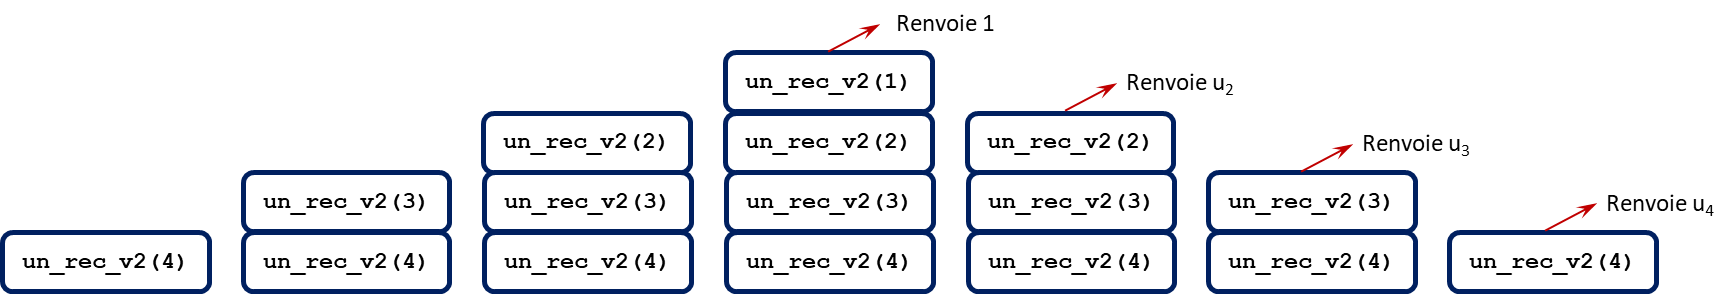
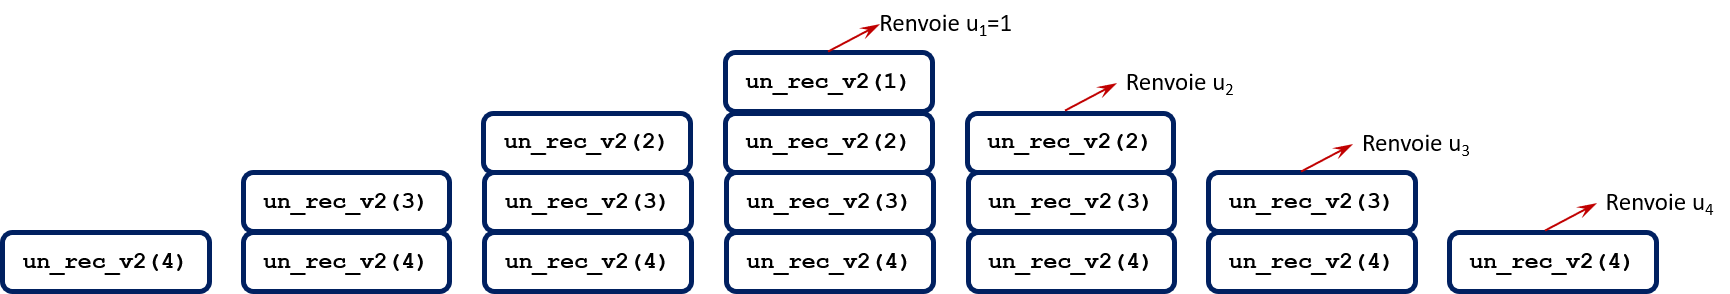
MAJ

diff --git a/Fiches/Fiche_05_FonctionsRecursives/Fiche_05_FonctionsRecursives.tex b/Fiches/Fiche_05_FonctionsRecursives/Fiche_05_FonctionsRecursives.tex
@@ -82,14 +82,14 @@ def un_rec_v2 (n : int) -> float :
 \end{center}\end{minipage}
 
 
-Dans la même idée que les graphes précsentés ci-dessus, il est possible de représenter la pile des appels récursifs, c'est à dire la succession des appels qui vont être faits pour calculer le nième terme d'une suite. 
+Dans la même idée que les graphes présentés ci-dessus, il est possible de représenter la pile des appels récursifs, c'est à dire la succession des appels qui vont être faits pour calculer le nième terme d'une suite. 
 
 \begin{center}
 \includegraphics[width=.95\linewidth]{fig_04}
 \end{center}
 
 \section{Slicing de tableau ou de chaînes de caractères}
-Il est possible d'agir par récurisivité sur des listes ou sur des chaînes de caractère. Pour cela, il peut être nécessaire d'utiliser le slicing. Pour rappel, \texttt{a = ch[i:j]} permet d'affecter à \texttt{a} la liste (ou le chaîne de caractéres) constitué des éléments de \texttt{i} à \texttt{j}. En écrivant \texttt{a = ch[i:]} on affecte à a tous les éléments du \ieme au dernier.
+Il est possible d'agir par récursivité sur des listes ou sur des chaînes de caractère. Pour cela, il peut être nécessaire d'utiliser le slicing. Pour rappel, \texttt{a = ch[i:j]} permet d'affecter à \texttt{a} la liste (ou le chaîne de caractéres) constitué des éléments de \texttt{i} (inclus) à \texttt{j} (exclus). En écrivant \texttt{a = ch[i:]} on affecte à \texttt{a} tous les éléments du ième au dernier.
 
 
 \vspace{.5cm}
@@ -99,7 +99,7 @@ Il est possible d'agir par récurisivité sur des listes ou sur des chaînes de 
 Ainsi, pour réaliser la somme des éléments d'une liste \texttt{L} par récusivité : 
 \begin{itemize}
 \item commençons par déterminer le cas terminal : si la taille de la liste vaut 1, on renvoie \texttt{L[0]};
-\item sinon (si la taille vaut \texttt{n}), on peut choisir de renvoyer \texttt{L[0]}+\texttt{somme(L[1]+L[2]+...+L[n-1]}. 
+\item sinon (si la taille vaut \texttt{n}), on peut choisir de renvoyer \texttt{L[0]}+\texttt{somme(L[1]+L[2]+...+L[n-1])}. 
 \end{itemize}
 Cela se traduit ainsi.
 \begin{lstlisting}
@@ -114,7 +114,7 @@ def somme(L:list) -> float :
 Pour une chaîne de caractères, si on souhaite renvoyer son miroir (par exemple, le miroir de \texttt{abc} serait \texttt{cba}) : 
 \begin{itemize}
 \item si la chaîne de caractère a une taille de 1, on renvoie le caractère;
-\item sinon, on renvoie 
+\item sinon, on renvoie la concatanéation de  \texttt{miroir(ch[1:])+ch[0]}.
 \end{itemize}
 \begin{lstlisting}
 def miroir(ch:str) -> str :

diff --git a/Exercices/S1_05_FonctionsRecursives/11_QCM.tex b/Exercices/S1_05_FonctionsRecursives/11_QCM.tex
@@ -114,3 +114,101 @@ def copy(n,s):
 \item \texttt{'AAAAAAAA'}.
 \item \texttt{'3A'}.
 \end{enumerate}
+
+\question{Que retourne l'instruction : \texttt{mystere(3,'\$')} ?}
+\begin{lstlisting}
+def mystere(n,s):
+    if n==0:
+        return s
+    return s + mystere(n-1, s)
+\end{lstlisting}
+
+\begin{enumerate}
+\item \texttt{'\$\$\$'}.
+\item \texttt{'\$2\$'}.
+\item \texttt{'\$\$\$\$'}. %+
+\item L'exécution déclenche une erreur.
+\end{enumerate}
+
+\question{Que retourne la commande \texttt{f(3,4)} ?}
+\begin{lstlisting}
+def f(a,b):
+    if a == 0 :
+        return b
+    return f(a-1, b+1)
+\end{lstlisting}
+
+\begin{enumerate}
+\item 4.
+\item 5.
+\item 6.
+\item 7. %+
+\end{enumerate}
+
+\question{Que retourne la commande \texttt{mystere(3)} ?}
+\begin{lstlisting}
+def mystere(n):
+    if n>0 :
+        return mystere(n-2)
+    else :
+        return n==0
+\end{lstlisting}
+
+\begin{enumerate}
+\item True.
+\item False. %+
+\item RecursionError.
+\item 0.
+\end{enumerate}
+
+\question{On propose de créer une fonction récursive permettant de calculer  $x^n$. Compléter la fonction proposée.}
+\begin{lstlisting}
+def puissance(x,n):
+    if n > 0 : 
+        return .......
+    return 1
+\end{lstlisting}
+
+\begin{enumerate}
+\item \texttt{puissance(x,n-1)}.
+\item \texttt{x*puissance(x,n-1)}. %+
+\item Quoi que l'on écrive, cette fonction ne donnera pas le résultat attendu.
+\item \texttt{x**(n-1)*puissance(x,n-1)}.
+\end{enumerate}
+
+\question{Que renvoi ce programme en console ?}
+\begin{lstlisting}
+def ed(L,M=[]):
+    if len(L) == 0 : return M
+    a=L.pop()
+    if a not in M : M.append(a)
+    return ed(L,M)
+L=[2, 3, 2, 6, 8, 9, 9, 10, 9, 3, 6, 7, 8, 8, 9]
+print(ed(L))
+\end{lstlisting}
+
+\begin{enumerate}
+\item \texttt{None}.
+\item \texttt{[9, 8, 7, 6, 3, 10, 2]}. %+
+\item \texttt{[9, 8, 8, 7, 6, 3, 9, 10, 9, 9, 8, 6, 2, 3, 2]}.
+\item \texttt{[2, 10, 3, 6, 7, 8, 9]}.
+\end{enumerate}
+
+\question{Que retourne le programme suivant ?}
+\begin{lstlisting}
+def A(x):
+    if x <= 1 : return x
+    return B(x+1)
+
+def B(x) :
+    return A(x-2)+4
+
+print(A(4))
+\end{lstlisting}
+
+\begin{enumerate}
+\item 13. %+
+\item 1.
+\item 12.
+\item Une erreur de type : "RecursionError: maximum recursion depth exceeded in comparison".
+\end{enumerate}
